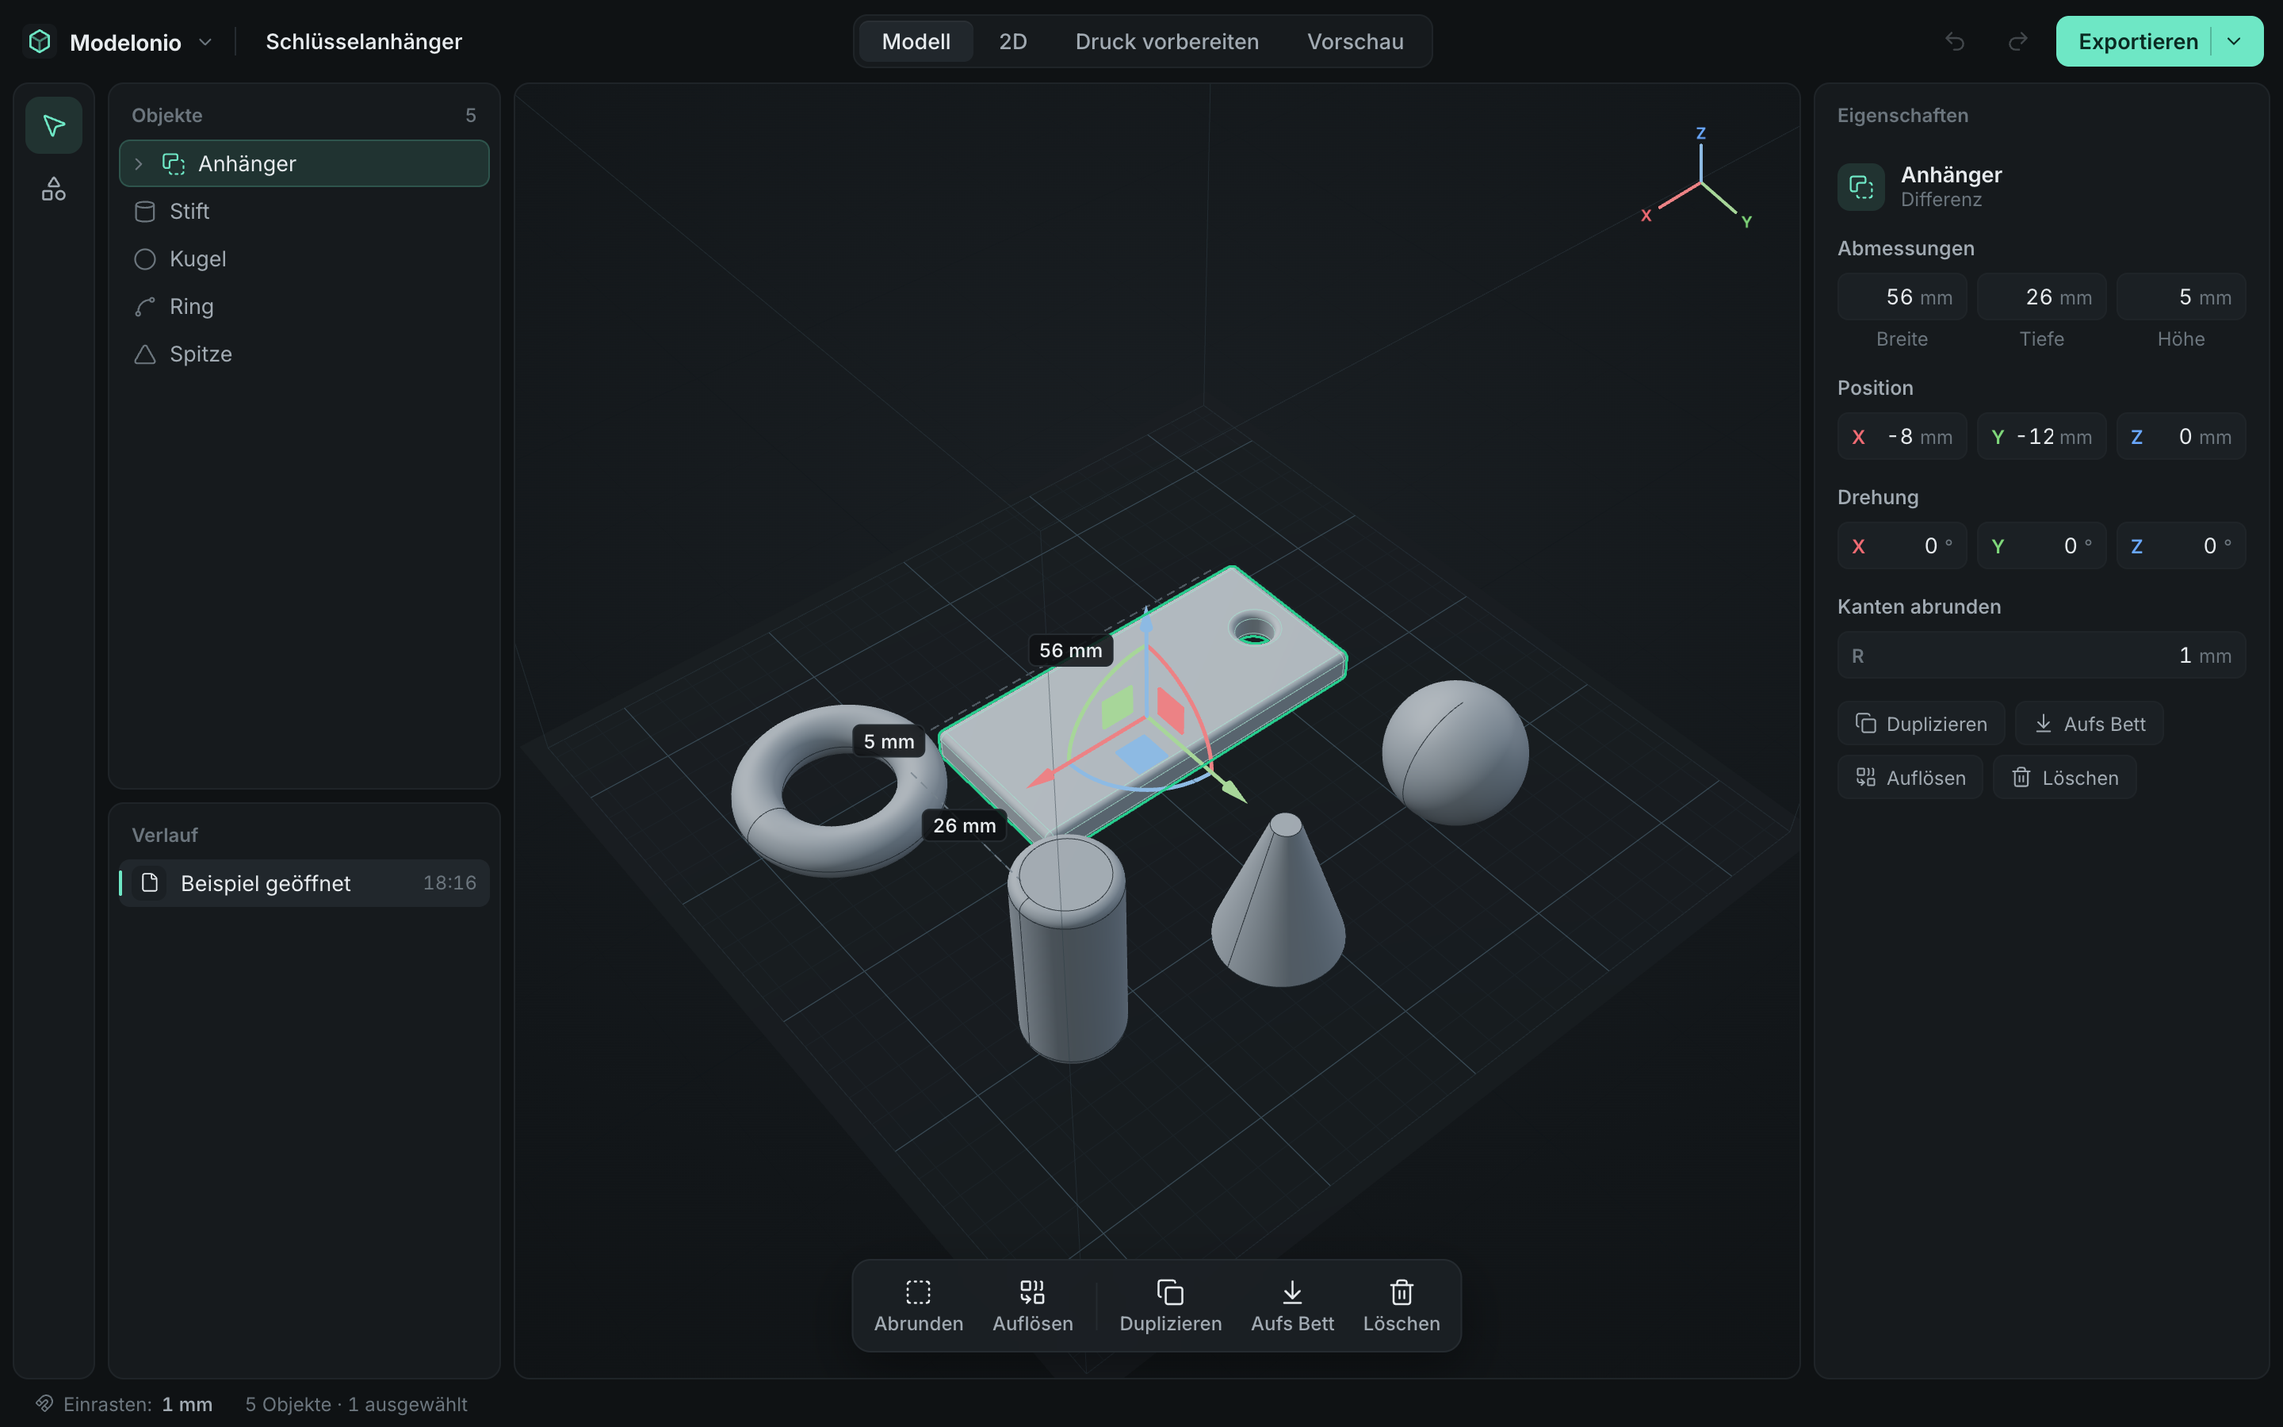
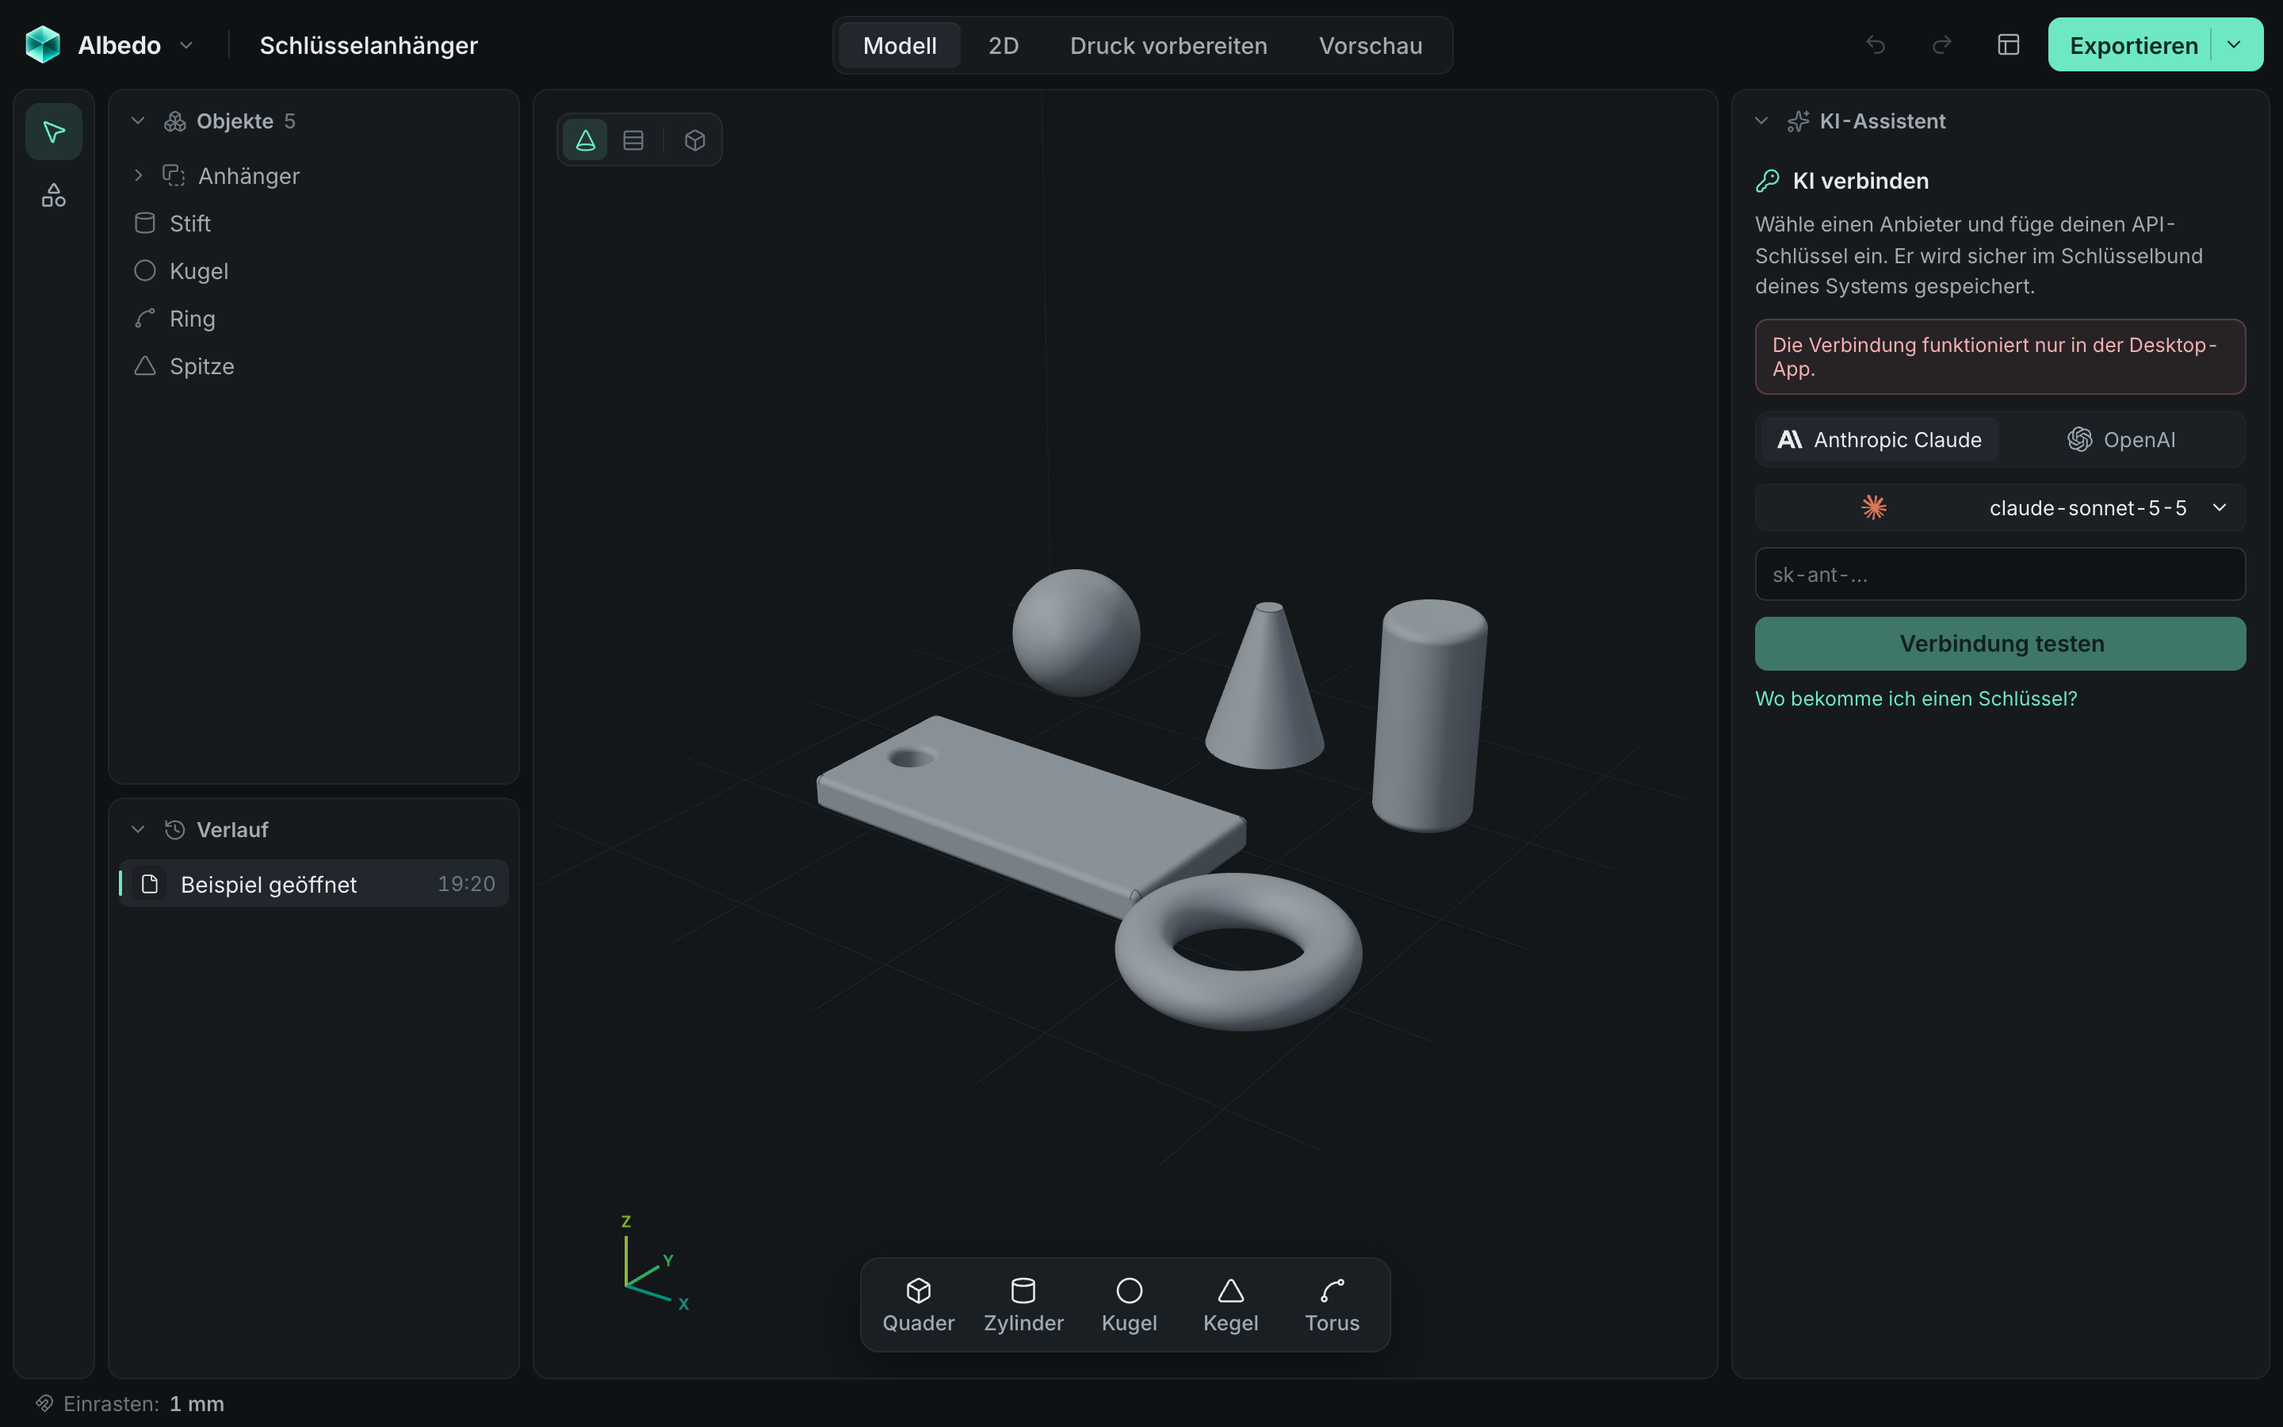
Umbenennung in Albedo
- Alle sichtbaren Texte, Fenstertitel, productName/mainBinaryName, Bundle-ID de.codana.albedo
- Projektdateien .albedo; ältere .modelonio-Dateien lassen sich weiter öffnen
- Einmalige Migration: Webview-Speicher, localStorage-Schlüssel und Schlüsselbund-Einträge
- Export-Kennungen, README, CI-Artefaktnamen

diff --git a/src/core/commandDefs.ts b/src/core/commandDefs.ts
@@ -834,7 +834,7 @@ defineCommand({
   perform() {
     const layout = useLayout.getState();
     if (!layout.panels.chat.open || layout.panels.chat.collapsed) layout.setPanel("chat", { open: true, collapsed: false });
-    setTimeout(() => window.dispatchEvent(new Event("modelonio:focus-chat")), 60);
+    setTimeout(() => window.dispatchEvent(new Event("albedo:focus-chat")), 60);
   },
 });
 
@@ -852,7 +852,9 @@ defineCommand({
 
 // ── Files ────────────────────────────────────────────────────────────────────
 
-const PROJECT_FILTER = { name: "Modelonio-Projekt", extensions: ["modelonio"] };
+const PROJECT_FILTER = { name: "Albedo-Projekt", extensions: ["albedo"] };
+/** Opening also accepts project files saved before the rename. */
+const OPEN_FILTER = { name: "Albedo-Projekt", extensions: ["albedo", "modelonio"] };
 
 async function confirmDiscard(): Promise<boolean> {
   const s = useApp.getState();
@@ -860,7 +862,7 @@ async function confirmDiscard(): Promise<boolean> {
   const text = "Ungespeicherte Änderungen gehen verloren. Fortfahren?";
   if (isTauri) {
     const { ask } = await import("@tauri-apps/plugin-dialog");
-    return ask(text, { title: "Modelonio", kind: "warning", okLabel: "Verwerfen", cancelLabel: "Abbrechen" });
+    return ask(text, { title: "Albedo", kind: "warning", okLabel: "Verwerfen", cancelLabel: "Abbrechen" });
   }
   return window.confirm(text);
 }
@@ -871,7 +873,7 @@ async function saveProject(forceDialog: boolean) {
   const s = useApp.getState();
   const doc = s.nodes[s.currentId].doc;
   const path = await saveFile(
-    `${fileSafe(doc.name)}.modelonio`,
+    `${fileSafe(doc.name)}.albedo`,
     PROJECT_FILTER,
     JSON.stringify(doc, null, 2),
     forceDialog ? null : s.filePath,
@@ -899,16 +901,17 @@ defineCommand({
   id: "file.open",
   kind: "action",
   label: "Öffnen …",
-  description: "Öffnet eine .modelonio-Projektdatei.",
+  description: "Öffnet eine Albedo-Projektdatei (.albedo, auch ältere .modelonio-Dateien).",
   icon: "open",
   shortcut: "mod+o",
   params: {},
   async perform() {
     if (!(await confirmDiscard())) return;
-    const file = await openTextFile(PROJECT_FILTER);
+    const file = await openTextFile(OPEN_FILTER);
     if (!file) return;
     const doc = JSON.parse(file.text);
-    if (!isModelDocument(doc)) throw new Error("Keine gültige Modelonio-Datei");
+    if (!isModelDocument(doc)) throw new Error("Keine gültige Albedo-Datei");
+    doc.format = "albedo";
     useApp.getState().reset(doc, `${baseName(file.path)} geöffnet`, isTauri ? file.path : null);
   },
 });
@@ -917,7 +920,7 @@ defineCommand({
   id: "file.save",
   kind: "action",
   label: "Speichern",
-  description: "Speichert das Projekt als .modelonio-Datei.",
+  description: "Speichert das Projekt als .albedo-Datei.",
   icon: "save",
   shortcut: "mod+s",
   params: {},

diff --git a/src/help/topics.ts b/src/help/topics.ts
@@ -25,7 +25,7 @@ export const HELP_TOPICS: HelpTopic[] = [
     icon: "boxes",
     status: "ready",
     summary: "Ein neues Projekt startet mit einem 20-mm-Würfel auf dem Druckbett; Körper hinzufügen, verändern, exportieren.",
-    what: "Modelonio ist ein Programm, mit dem du Teile für deinen 3D-Drucker baust. Du kombinierst einfache Grundkörper, schneidest Löcher hinein und exportierst das Ergebnis für deinen Slicer.",
+    what: "Albedo ist ein Programm, mit dem du Teile für deinen 3D-Drucker baust. Du kombinierst einfache Grundkörper, schneidest Löcher hinein und exportierst das Ergebnis für deinen Slicer.",
     when: "Immer, wenn du ein eigenes Teil drucken möchtest – zum Beispiel einen Halter, eine Box oder ein Ersatzteil.",
     steps: [
       "Jedes neue Projekt beginnt mit einem Würfel auf dem Druckbett.",
@@ -34,7 +34,7 @@ export const HELP_TOPICS: HelpTopic[] = [
       "Mit „Exportieren“ oben rechts speicherst du eine STL- oder 3MF-Datei für den Slicer.",
     ],
     tip: "Plane dein Teil zuerst grob mit Grundkörpern. Details wie Abrundungen kommen zum Schluss.",
-    image: { kind: "screenshot", src: "start", alt: "Modelonio mit einem Würfel auf dem Druckbett" },
+    image: { kind: "screenshot", src: "start", alt: "Albedo mit einem Würfel auf dem Druckbett" },
     keywords: ["anfang", "einstieg", "neu", "projekt"],
   },
   {
@@ -153,7 +153,7 @@ export const HELP_TOPICS: HelpTopic[] = [
     when: "Für angenehmere Griffe, stabilere Ecken und schönere Teile. Fasen an der Unterseite helfen gegen den „Elefantenfuß“.",
     steps: [
       "Wähle einen Körper aus.",
-      "Klicke „Abrunden“ oder „Fasen“ – Modelonio schlägt eine passende Größe vor.",
+      "Klicke „Abrunden“ oder „Fasen“ – Albedo schlägt eine passende Größe vor.",
       "Unter „Kanten“ rechts stellst du den genauen Wert ein. Ist er zu groß, erscheint ein Hinweis.",
     ],
     tip: "Fasen statt Rundungen an der Unterseite drucken sich ohne Stützen.",
@@ -190,7 +190,7 @@ export const HELP_TOPICS: HelpTopic[] = [
     icon: "measure",
     status: "ready",
     summary: "Maße eines Körpers erscheinen beim Überfahren und beim Ziehen; exakte Werte stehen rechts in den Feldern. Punkt-zu-Punkt-Messen kommt bald.",
-    what: "Modelonio zeigt dir die Abmessungen von Körpern direkt im Viewport.",
+    what: "Albedo zeigt dir die Abmessungen von Körpern direkt im Viewport.",
     when: "Wenn du prüfen willst, ob ein Teil passt.",
     steps: [
       "Fahre mit der Maus über einen ausgewählten Körper – Breite, Tiefe und Höhe erscheinen.",

diff --git a/src/components/ChatPanel.tsx b/src/components/ChatPanel.tsx
@@ -29,7 +29,7 @@ interface ChatEntry {
 const useChat = create<{ entries: ChatEntry[]; api: Message[]; running: boolean }>(() => ({ entries: [], api: [], running: false }));
 let controller: AbortController | null = null;
 
-export const focusChat = () => window.dispatchEvent(new Event("modelonio:focus-chat"));
+export const focusChat = () => window.dispatchEvent(new Event("albedo:focus-chat"));
 
 const STARTERS = [
   "Bau mir eine Box mit Deckel, 60 × 40 × 30 mm",
@@ -148,8 +148,8 @@ export function ChatPanel() {
 
   useEffect(() => {
     const focus = () => inputRef.current?.focus();
-    window.addEventListener("modelonio:focus-chat", focus);
-    return () => window.removeEventListener("modelonio:focus-chat", focus);
+    window.addEventListener("albedo:focus-chat", focus);
+    return () => window.removeEventListener("albedo:focus-chat", focus);
   }, []);
 
   useEffect(() => {
@@ -205,7 +205,7 @@ export function ChatPanel() {
         {entries.length === 0 ? (
           <div className="chat-empty">
             <img src={logo} alt="" />
-            <p>Beschreibe, was du bauen möchtest – oder frag mich etwas zu Modelonio.</p>
+            <p>Beschreibe, was du bauen möchtest – oder frag mich etwas zu Albedo.</p>
             <div className="chat-starters">
               {STARTERS.map((s) => (
                 <button key={s} className="chat-starter" onClick={() => send(s)}>

diff --git a/src/cad/worker.ts b/src/cad/worker.ts
@@ -77,7 +77,7 @@ function exportStl(shapes: Shape3D[]): ArrayBuffer {
   const triCount = meshes.reduce((n, m) => n + m.triangles.length / 3, 0);
   const buf = new ArrayBuffer(84 + triCount * 50);
   const view = new DataView(buf);
-  const header = strToU8("Modelonio STL export");
+  const header = strToU8("Albedo STL export");
   new Uint8Array(buf).set(header.subarray(0, 80));
   view.setUint32(80, triCount, true);
   let o = 84;
@@ -118,7 +118,7 @@ function export3mf(shapes: Shape3D[], names: string[]): ArrayBuffer {
   });
   const model = `<?xml version="1.0" encoding="UTF-8"?>
 <model unit="millimeter" xml:lang="de-DE" xmlns="http://schemas.microsoft.com/3dmanufacturing/core/2015/02">
-<metadata name="Application">Modelonio</metadata>
+<metadata name="Application">Albedo</metadata>
 <resources>${objects.join("")}</resources>
 <build>${items.join("")}</build>
 </model>`;
@@ -135,7 +135,7 @@ function export3mf(shapes: Shape3D[], names: string[]): ArrayBuffer {
 }
 
 function exportObj(shapes: Shape3D[], names: string[]): ArrayBuffer {
-  const out: string[] = ["# Modelonio OBJ export (mm)"];
+  const out: string[] = ["# Albedo OBJ export (mm)"];
   let offset = 1;
   shapes.forEach((s, idx) => {
     const m = s.mesh({ tolerance: 0.01, angularTolerance: 0.1 });

diff --git a/src/core/document.ts b/src/core/document.ts
@@ -1,4 +1,4 @@
-// The Modelonio document: a plain, serializable JSON list of features.
+// The Albedo document: a plain, serializable JSON list of features.
 // Everything the user builds lives here, so it can be saved, diffed, replayed
 // and (later) read and written by the AI assistant.
 
@@ -73,7 +73,7 @@ export interface PrinterProfile {
 }
 
 export interface ModelDocument {
-  format: "modelonio";
+  format: "albedo";
   version: 1;
   name: string;
   units: "mm";
@@ -88,7 +88,7 @@ export const DEFAULT_PRINTER: PrinterProfile = {
 
 export function createDocument(name = "Unbenanntes Projekt", { starter = true } = {}): ModelDocument {
   return {
-    format: "modelonio",
+    format: "albedo",
     version: 1,
     name,
     units: "mm",
@@ -207,5 +207,6 @@ export function geometryKey(f: Feature): string {
 
 export function isModelDocument(x: unknown): x is ModelDocument {
   const d = x as ModelDocument;
-  return !!d && d.format === "modelonio" && Array.isArray(d.features);
+  // Files from before the rename (format "modelonio") are still accepted.
+  return !!d && (d.format === "albedo" || (d.format as string) === "modelonio") && Array.isArray(d.features);
 }

diff --git a/src/ai/agent.ts b/src/ai/agent.ts
@@ -62,7 +62,7 @@ export function modelSnapshot() {
 export function systemPrompt(): string {
   const doc = getDoc();
   const help = HELP_TOPICS.map((t) => `- ${t.title}${t.status === "soon" ? " (kommt bald)" : ""}: ${t.summary}`).join("\n");
-  return `Du bist der KI-Assistent in Modelonio, einer CAD-App für den 3D-Druck für Einsteiger. Antworte auf Deutsch, freundlich und knapp.
+  return `Du bist der KI-Assistent in Albedo, einer CAD-App für den 3D-Druck für Einsteiger. Antworte auf Deutsch, freundlich und knapp.
 
 Koordinaten: Millimeter, Z zeigt nach oben, das Druckbett liegt bei Z = 0 und ist um den Ursprung zentriert (${doc.printer.name}, ${doc.printer.volume.join(" × ")} mm, also X/Y von −${doc.printer.volume[0] / 2} bis +${doc.printer.volume[0] / 2}). Die Position eines Grundkörpers ist die Mitte seiner Unterseite; neue Körper stehen auf dem Bett. Kugeln liegen auf dem Bett auf.
 

diff --git a/src/ui/settings.ts b/src/ui/settings.ts
@@ -16,7 +16,7 @@ export const QUALITY: Record<Quality, { dpr: number; shadows: number }> = {
 export type Projection = "perspective" | "orthographic";
 
 export const useSettings = create<{ quality: Quality; projection: Projection }>()(
-  persist(() => ({ quality: "high" as Quality, projection: "perspective" as Projection }), { name: "modelonio.settings" }),
+  persist(() => ({ quality: "high" as Quality, projection: "perspective" as Projection }), { name: "albedo.settings" }),
 );
 
 export interface AiSettings {
@@ -25,5 +25,5 @@ export interface AiSettings {
 }
 
 export const useAiSettings = create<AiSettings>()(
-  persist((): AiSettings => ({ provider: "anthropic", model: { anthropic: "claude-sonnet-5-5", openai: "" } }), { name: "modelonio.ai" }),
+  persist((): AiSettings => ({ provider: "anthropic", model: { anthropic: "claude-sonnet-5-5", openai: "" } }), { name: "albedo.ai" }),
 );

diff --git a/src/main.tsx b/src/main.tsx
@@ -1,3 +1,4 @@
+import "./migrate";
 import React from "react";
 import ReactDOM from "react-dom/client";
 import "@fontsource-variable/inter";
@@ -38,9 +39,9 @@ if (new URLSearchParams(location.search).has("beispiel"))
     void execute("selection.set", { ids: [s.nodes[s.currentId].doc.features[0].id] });
   });
 
-// Handy for debugging and the upcoming AI integration: window.modelonio.execute("primitive.box", {...})
+// Handy for debugging and scripting: window.albedo.execute("primitive.box", {...})
 Object.assign(window, {
-  modelonio: { execute, commands: () => listCommands().map(toToolDefinition), state: useApp.getState },
+  albedo: { execute, commands: () => listCommands().map(toToolDefinition), state: useApp.getState },
 });
 
 ReactDOM.createRoot(document.getElementById("root")!).render(

diff --git a/src/components/TopBar.tsx b/src/components/TopBar.tsx
@@ -42,7 +42,7 @@ export function TopBar() {
         <div ref={fileMenu.ref} style={{ position: "relative" }}>
           <button className="logo" onClick={() => fileMenu.setOpen(!fileMenu.open)} data-tip="Datei" data-tip-pos="bottom">
             <img src={logo1x} srcSet={`${logo1x} 1x, ${logo2x} 2x`} alt="" />
-            Modelonio
+            Albedo
             <ChevronDown size={13} color="var(--text-3)" />
           </button>
           {fileMenu.open && (

diff --git a/src/migrate.ts b/src/migrate.ts
@@ -1,0 +1,10 @@
+// One-time migration after the rename Modelonio → Albedo: copy persisted
+// browser storage to the new keys. Imported first so stores hydrate afterwards.
+for (const key of ["layout", "settings", "ai"]) {
+  try {
+    const old = localStorage.getItem(`modelonio.${key}`);
+    if (old !== null && localStorage.getItem(`albedo.${key}`) === null) localStorage.setItem(`albedo.${key}`, old);
+  } catch {
+    /* storage unavailable */
+  }
+}

diff --git a/src/ui/layout.ts b/src/ui/layout.ts
@@ -32,7 +32,7 @@ export const useLayout = create<LayoutState>()(
       reset: () => set({ panels: structuredClone(DEFAULT_PANELS), width: { ...DEFAULT_WIDTH } }),
     }),
     {
-      name: "modelonio.layout",
+      name: "albedo.layout",
       version: 2,
       partialize: (s) => ({ panels: s.panels, width: s.width }),
       // Any stored shape (older versions, hand-edited, partially written) is repaired on load.

diff --git a/src/App.tsx b/src/App.tsx
@@ -16,7 +16,7 @@ export function App() {
   // Keep the native window title in sync with the project name.
   const name = useApp((s) => s.nodes[s.currentId].doc.name);
   useEffect(() => {
-    document.title = `${name} – Modelonio`;
+    document.title = `${name} – Albedo`;
   }, [name]);
 
   return (
